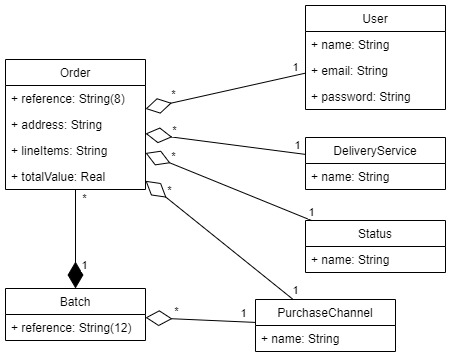
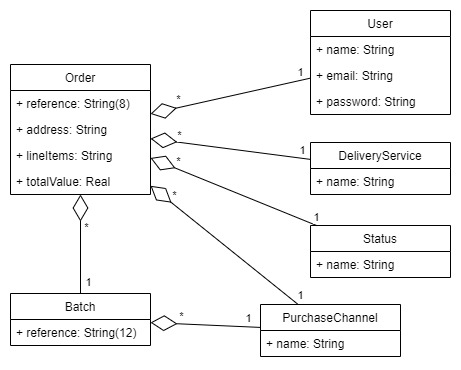
created entities

diff --git a/db/schema.rb b/db/schema.rb
@@ -10,10 +10,47 @@
 #
 # It's strongly recommended that you check this file into your version control system.
 
-ActiveRecord::Schema.define(version: 2020_09_30_005103) do
+ActiveRecord::Schema.define(version: 2020_09_30_225847) do
 
   # These are extensions that must be enabled in order to support this database
   enable_extension "plpgsql"
+
+  create_table "batches", force: :cascade do |t|
+    t.string "reference"
+    t.bigint "purchase_channel_id", null: false
+    t.datetime "created_at", precision: 6, null: false
+    t.datetime "updated_at", precision: 6, null: false
+    t.index ["purchase_channel_id"], name: "index_batches_on_purchase_channel_id"
+  end
+
+  create_table "delivery_services", force: :cascade do |t|
+    t.string "name"
+  end
+
+  create_table "orders", force: :cascade do |t|
+    t.string "reference"
+    t.text "address"
+    t.text "lineItems"
+    t.float "totalValue"
+    t.bigint "user_id", null: false
+    t.bigint "delivery_service_id", null: false
+    t.bigint "purchase_channel_id", null: false
+    t.bigint "batch_id", null: false
+    t.datetime "created_at", precision: 6, null: false
+    t.datetime "updated_at", precision: 6, null: false
+    t.index ["batch_id"], name: "index_orders_on_batch_id"
+    t.index ["delivery_service_id"], name: "index_orders_on_delivery_service_id"
+    t.index ["purchase_channel_id"], name: "index_orders_on_purchase_channel_id"
+    t.index ["user_id"], name: "index_orders_on_user_id"
+  end
+
+  create_table "purchase_channels", force: :cascade do |t|
+    t.string "name"
+  end
+
+  create_table "statuses", force: :cascade do |t|
+    t.string "name"
+  end
 
   create_table "users", force: :cascade do |t|
     t.string "email", default: "", null: false
@@ -30,4 +67,9 @@ ActiveRecord::Schema.define(version: 2020_09_30_005103) do
     t.index ["reset_password_token"], name: "index_users_on_reset_password_token", unique: true
   end
 
+  add_foreign_key "batches", "purchase_channels"
+  add_foreign_key "orders", "batches"
+  add_foreign_key "orders", "delivery_services"
+  add_foreign_key "orders", "purchase_channels"
+  add_foreign_key "orders", "users"
 end

diff --git a/db/migrate/20200930225847_create_orders.rb b/db/migrate/20200930225847_create_orders.rb
@@ -1,0 +1,16 @@
+class CreateOrders < ActiveRecord::Migration[6.0]
+  def change
+    create_table :orders do |t|
+      t.string :reference
+      t.text :address
+      t.text :lineItems
+      t.float :totalValue
+      t.references :user, null: false, foreign_key: true
+      t.references :delivery_service, null: false, foreign_key: true
+      t.references :purchase_channel, null: false, foreign_key: true
+      t.references :batch, null: false, foreign_key: true
+
+      t.timestamps
+    end
+  end
+end

diff --git a/db/migrate/20200930223239_create_statuses.rb b/db/migrate/20200930223239_create_statuses.rb
@@ -1,0 +1,12 @@
+class CreateStatuses < ActiveRecord::Migration[6.0]
+  def change
+    create_table :statuses do |t|
+      t.string :name
+    end
+
+    Status.create :name => "Ready"
+    Status.create :name => "Production"
+    Status.create :name => "Closing"
+    Status.create :name => "Sent"
+  end
+end

diff --git a/app/models/user.rb b/app/models/user.rb
@@ -1,5 +1,6 @@
 class User < ApplicationRecord
   acts_as_token_authenticatable
+  validates :name, presence: true
   # Include default devise modules. Others available are:
   # :confirmable, :lockable, :timeoutable, :trackable and :omniauthable
   devise :database_authenticatable, :registerable,

diff --git a/app/controllers/application_controller.rb b/app/controllers/application_controller.rb
@@ -3,6 +3,6 @@ class ApplicationController < ActionController::API
   before_action :require_authentication!
 
   private def require_authentication!
-    throw(:warden, scope: :user) unless current_user.presence
+    throw(:warden, scope: :user) unless current_user.presence
   end
 end

diff --git a/db/migrate/20200930225652_create_batches.rb b/db/migrate/20200930225652_create_batches.rb
@@ -1,0 +1,10 @@
+class CreateBatches < ActiveRecord::Migration[6.0]
+  def change
+    create_table :batches do |t|
+      t.string :reference
+      t.references :purchase_channel, null: false, foreign_key: true
+
+      t.timestamps
+    end
+  end
+end

diff --git a/db/migrate/20200930223733_create_delivery_services.rb b/db/migrate/20200930223733_create_delivery_services.rb
@@ -1,0 +1,7 @@
+class CreateDeliveryServices < ActiveRecord::Migration[6.0]
+  def change
+    create_table :delivery_services do |t|
+      t.string :name
+    end
+  end
+end

diff --git a/db/migrate/20200930223920_create_purchase_channels.rb b/db/migrate/20200930223920_create_purchase_channels.rb
@@ -1,0 +1,7 @@
+class CreatePurchaseChannels < ActiveRecord::Migration[6.0]
+  def change
+    create_table :purchase_channels do |t|
+      t.string :name
+    end
+  end
+end

diff --git a/app/models/order.rb b/app/models/order.rb
@@ -1,0 +1,6 @@
+class Order < ApplicationRecord
+  belongs_to :user
+  belongs_to :deliveryService
+  belongs_to :purchaseChannel
+  belongs_to :batch
+end

diff --git a/test/models/delivery_service_test.rb b/test/models/delivery_service_test.rb
@@ -1,0 +1,7 @@
+require 'test_helper'
+
+class DeliveryServiceTest < ActiveSupport::TestCase
+  # test "the truth" do
+  #   assert true
+  # end
+end

diff --git a/test/models/purchase_channel_test.rb b/test/models/purchase_channel_test.rb
@@ -1,0 +1,7 @@
+require 'test_helper'
+
+class PurchaseChannelTest < ActiveSupport::TestCase
+  # test "the truth" do
+  #   assert true
+  # end
+end

diff --git a/test/models/status_test.rb b/test/models/status_test.rb
@@ -1,0 +1,7 @@
+require 'test_helper'
+
+class StatusTest < ActiveSupport::TestCase
+  # test "the truth" do
+  #   assert true
+  # end
+end
